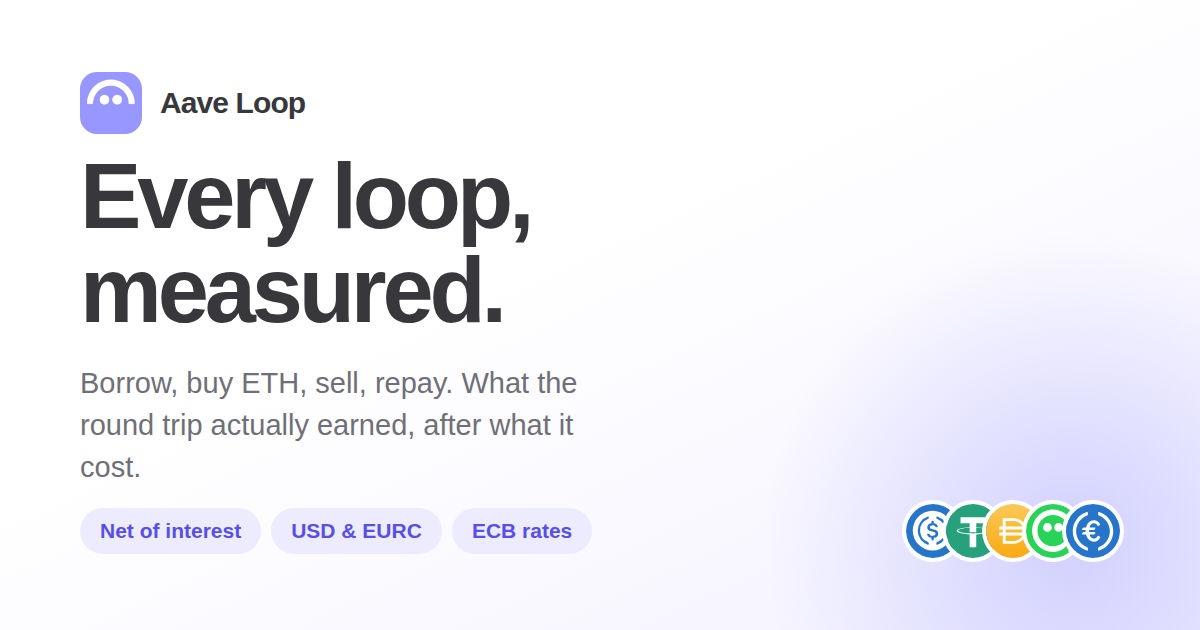
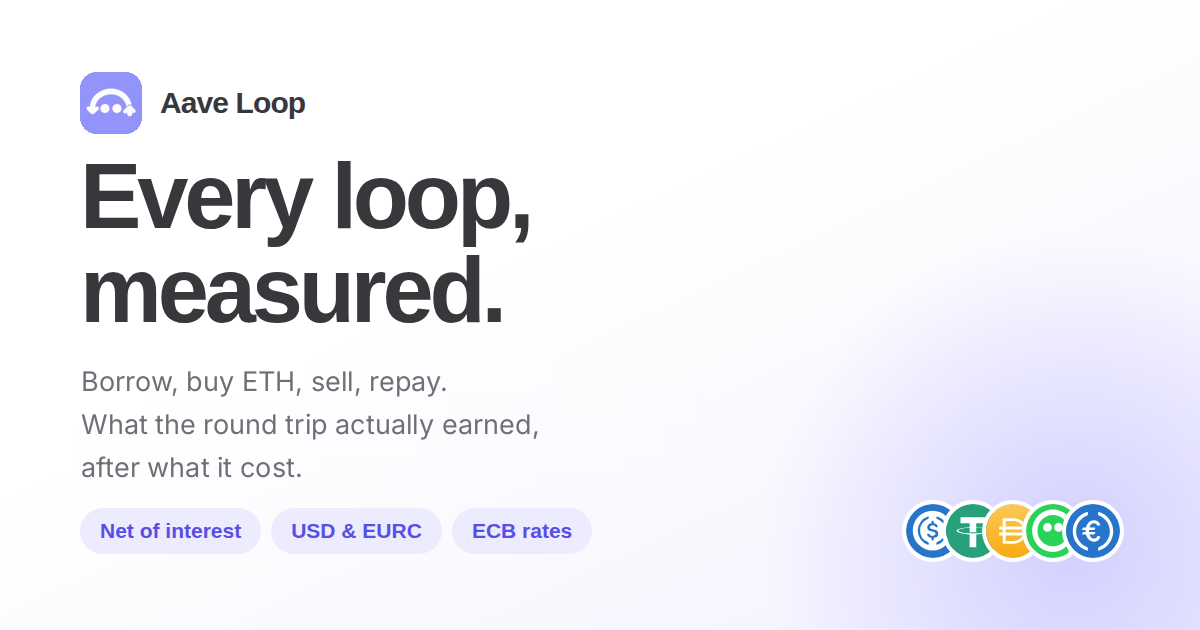
Redraw the social card with the app's mark
The card still carried Aave's mark, and its subtitle ran the second
sentence on from the first. The mark is now the Aave Loop logo, and
"What the round trip actually earned, after what it cost." starts on
its own line.

The subtitle is reset in Inter at the size it was, over a background
rebuilt from the rows either side, so the gradient behind it is intact.
The heading, the chips and the coin cluster are untouched.

diff --git a/CHANGELOG.md b/CHANGELOG.md
@@ -11,7 +11,7 @@ The app wears its own mark, and the name comes off the social card.
 
 - **The brand mark is Aave Loop's own logo.** The app had been wearing Aave's, in the header, on the landing page and on its 404. `AaveLoop_logo_transparent.png` is the full-resolution master, at 1254px. The pages load a 96px derivative of it: the mark is drawn at 24px, and the full-size file is 941KB, which was a megabyte a page load for a tile the size of a fingernail.
 - **`favicon.ico` and the apple-touch icon are regenerated from that logo**, the ico at 16, 32 and 48 with the tile's corners rounded, the touch icon at 180, square and opaque because iOS applies its own mask and composites transparency onto black. Both still carried Aave's mark.
-- **The social card no longer says "Ledger".** `landing/og2.png` is the same 1200x630 card with the old wordmark painted out, and `og:image` and `twitter:image` name it. A new filename rather than an overwrite, because a scraper caches the image by URL; `og.png` stays where it is for the unfurls already pointing at it.
+- **The social card is redrawn as `landing/og2.png`**, 1200x630 as before: the wordmark loses "Ledger", the mark is the new logo, and the second sentence of the subtitle starts on its own line rather than running on from the first. `og:image` and `twitter:image` name it. A new filename rather than an overwrite, because a scraper caches the image by URL; `og.png` stays where it is for the unfurls already pointing at it.
 - **The README is half the length it was**, opens with a link to this file, and drops the "Landing page" and "Running behind a proxy" sections. Every formula, all six `config.env` steps and the layout block are unchanged.
 - This file is a third shorter. The same 22 releases with the same facts; what went was the retelling, mostly in the Notes, which now say what was verified rather than how it felt to verify it.
 
